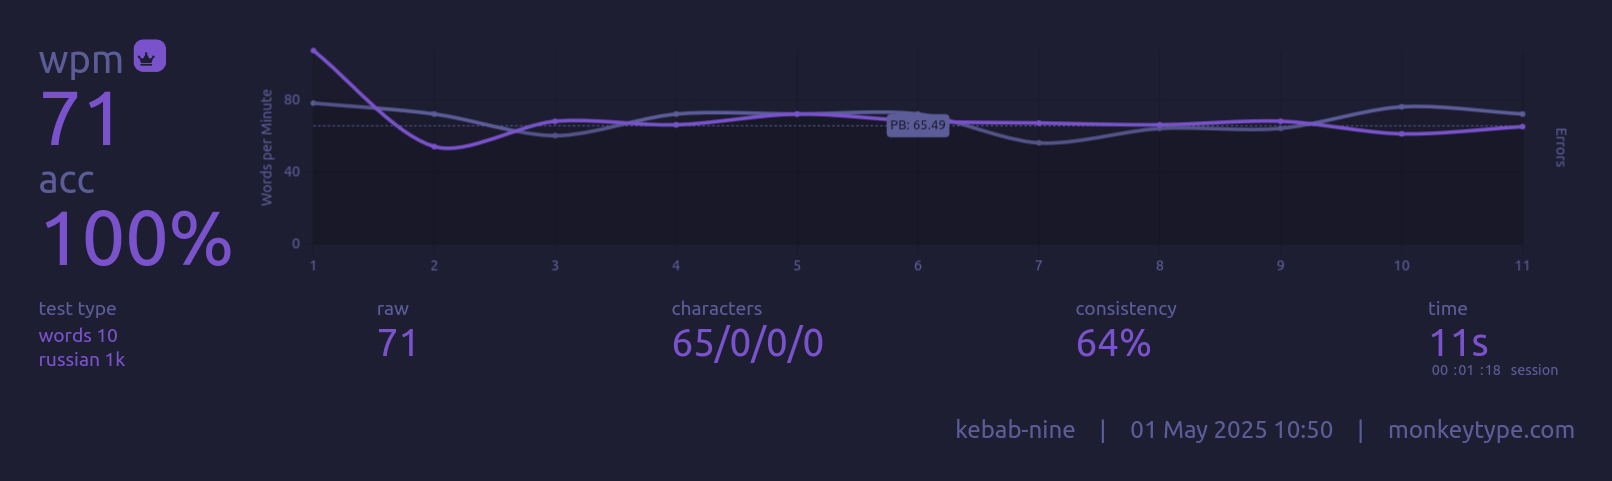
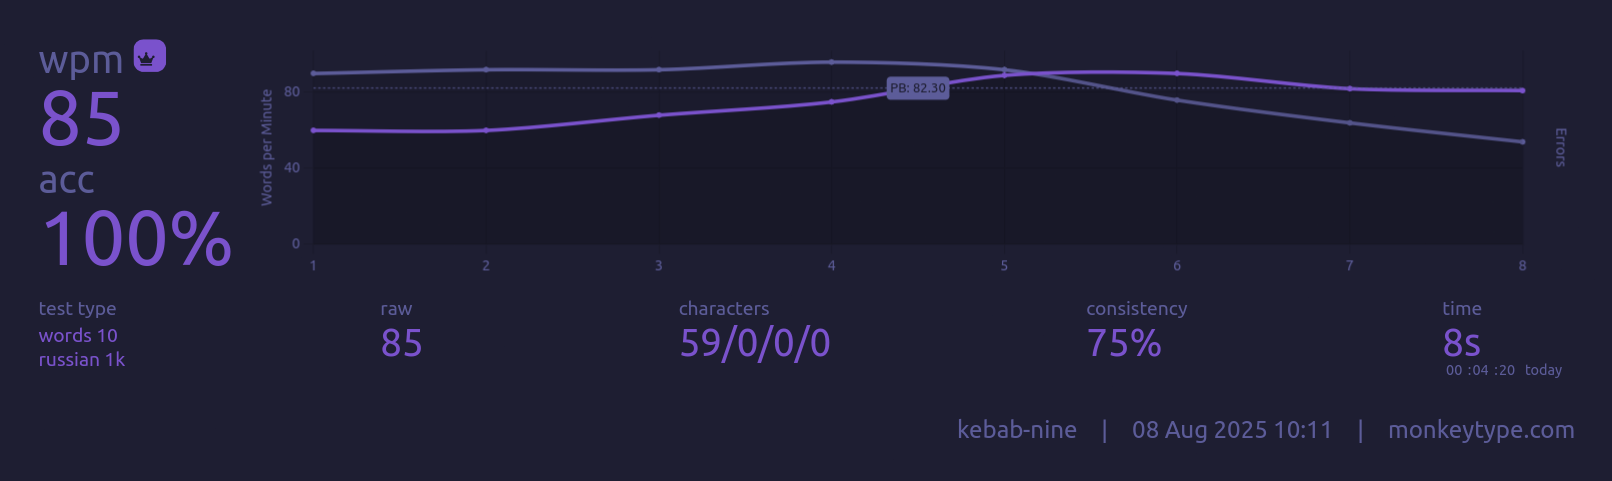
Update progress on RU layout

diff --git a/README.md b/README.md
@@ -9,14 +9,16 @@ q s n t h k      / a e i c ;
 ```
 Note: place rare keys (`q`, `j`, `z`) wherever you'd like. I also use combo `u + y` for `qu`, it's quite helpful.
 
-For Russian I use another custom layout with somewhat decent stats (I guess).
+For Russian I use another custom layout with somewhat decent stats (I guess):
 ```
 . ё ы й г ю        ц к л ш щ
 э и о а м х      ф д н р т ъ
   у я ь с ж      б в п ч з
         е
 ```
-Note: place rare keys (`э`, `щ`, `ъ`) wherever you'd like. I also use few combos: `в + ч` for `ться`, `в + п` for `г`. This layout feels not so flowy as Promethium, I hope combos can help with some difficult words, just need to find the right ones.
+Note: place rare keys (`э`, `щ`, `ъ`) wherever you'd like. I also use a combo `в + ч` for `ться`.
+
+After few months of practice I can say this layout feels good. I have only one minor complain about `г` key (I press it with middle finger btw). It will be nice to have that key on the right side. I've tried a combo `в + п` but result was meh.
 
 oxey's stats:
 ```
@@ -58,14 +60,16 @@ Invalid: 6.240%
 
 ```
 
-![MonkeyType results on Russian 1k words 10 test after few months of not intense practice](./images/ru-progress.png)
-
 Note: btw you can get a little bit better stats without thumb key (less sfb, more lsb), didn't practice it:
 ```
 . у ы Е г ю      Ц Ч к л ш щ
 э и о а м х      ф д н р т ъ
   ё я ь с ж      б в п Й з
 ```
+
+![MonkeyType results on Russian 1k words 10 test after few months of not intense practice](./images/ru-progress.png)
+
+My current PBs on short MonkeyType tests (10 words, 1k set) are: for English is 92wpm, for Russian is 85wpm. So in terms of speed this RU layout is the same as Promethium and "save" to use.
 
 ---
 
